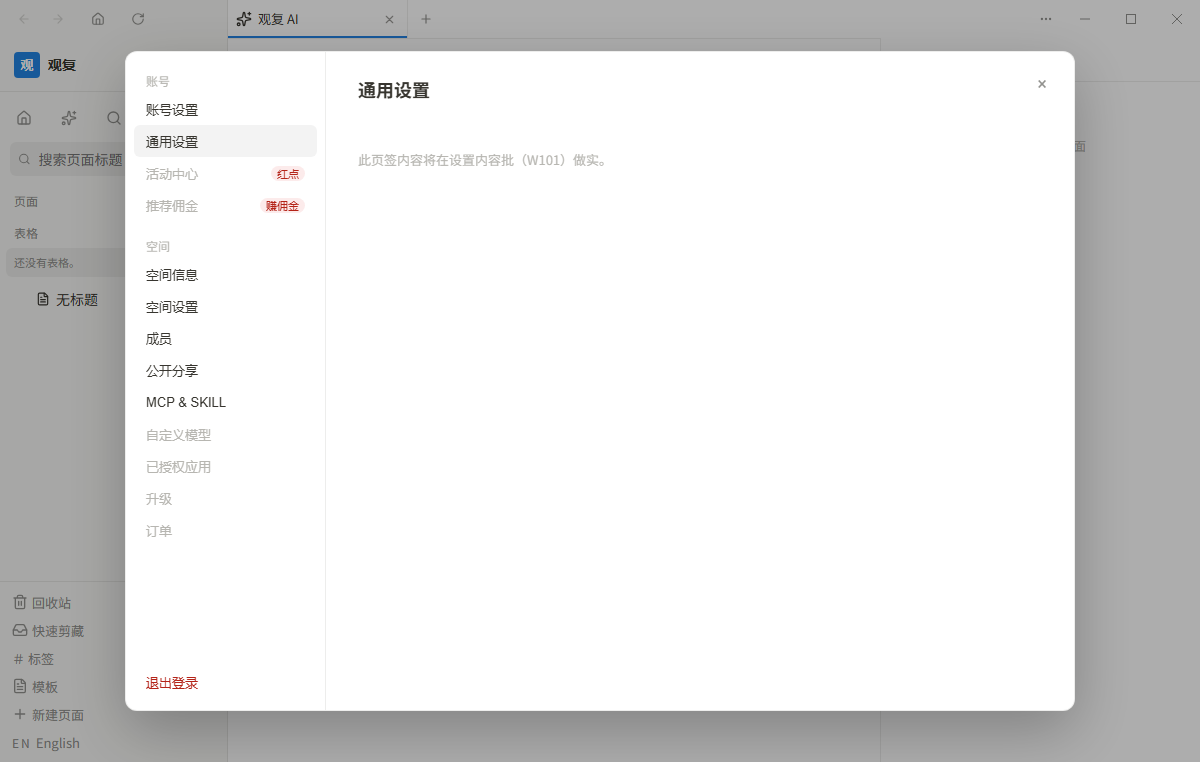
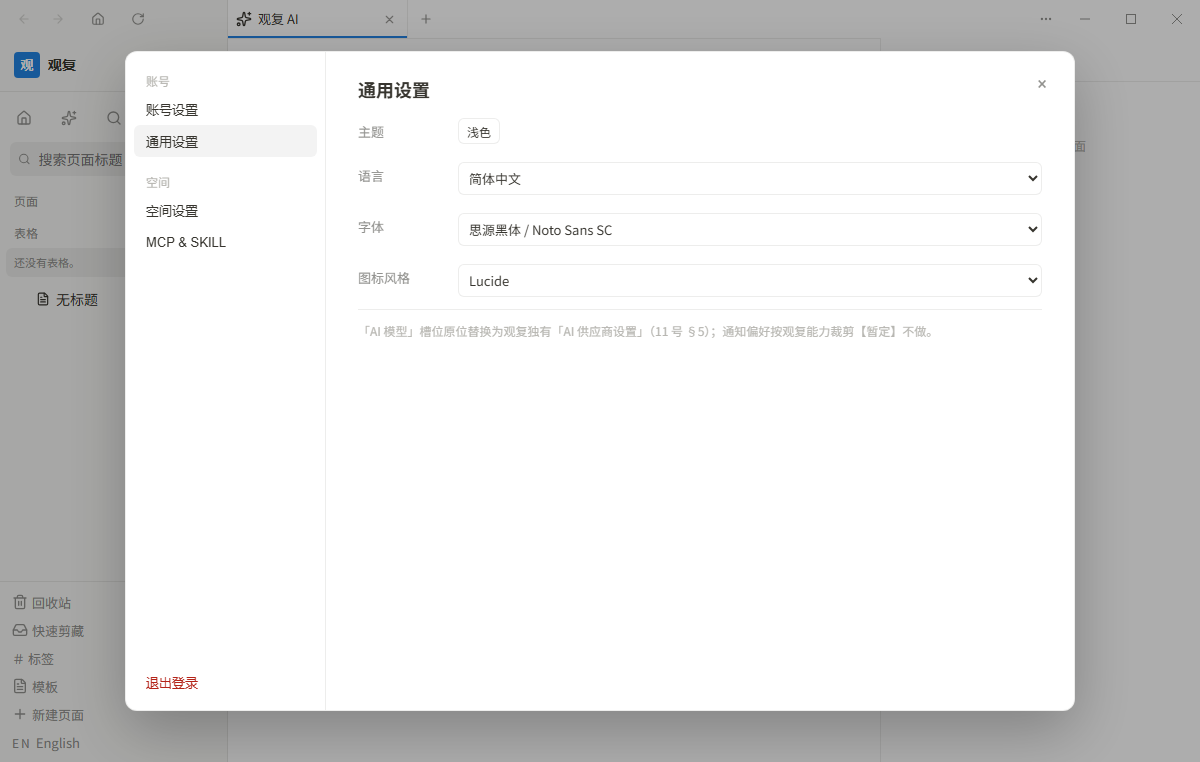
W102 DONE：商业化槽位替换——11 号 §5 清单执行：删 活动中心/推荐佣金/升级/订单/自定义模型/已授权应用+成员/公开分享/空间信息（单机自托管取删除【暂定】）；MCP & SKILL 保留槽位（mcp.ts 设置入口）；退出登录保留；导航精简为 账号2+空间2+退出登录；双 check 脚本真实浏览器全过（8+6 断言）+7 截图，272 绿 build 过

diff --git a/app/src/shell/SettingsDialog.tsx b/app/src/shell/SettingsDialog.tsx
@@ -1,6 +1,5 @@
 import { useEffect, useState } from "react";
 import { useStore } from "../data/store";
-import { loadAiConfig, saveAiConfig, type AiConfig } from "../data/ai";
 import { loadClipServerUrl, saveClipServerUrl, loadClipToken, saveClipToken } from "../data/clipApi";
 import { repo } from "../data/db";
 import { FONT_THEMES } from "../design/fonts";
@@ -8,72 +7,43 @@ import { ICON_SETS, type IconSetId } from "../design/icons";
 import { useLang } from "../i18n";
 
 /** W100 · 设置弹层骨架（11 号 §2）：居中大弹层 ~950×660，左侧竖导航 + 右侧内容 + 右上 ×。
- *  页签分组照录 11 号 §2：账号组（账号设置/通用设置，其余商业化置灰）、空间组、底部退出登录。
- *  W101 · 页签内容对齐（11 号 §5 观复槽位方案）：
- *  - 账号设置 → 观复简化（昵称真改真存，其余观复自建账号体系【暂定】不放假输入）
- *  - 通用设置 → 外观（主题/字体/图标风格，接 store）/ 语言（接 i18n）/ AI 供应商（原位替换，接 ai.ts）
- *  - 空间设置 → 原位替换为「同步与凭证」（观复独有：剪藏服务端地址/Token + 同步状态真显示）
- *  - 公开分享 → 空态（观复单机自托管，无公开主页）
- *  - MCP & SKILL → 观复 mcp.ts 的设置入口（保留槽位，11 号 §5）
- *  - 商业化 6 项置灰（W102 处理槽位替换，本版保留导航位） */
+ *  W101 · 页签内容对齐（11 号 §5 观复槽位方案）。
+ *  W102 · 商业化槽位替换（11 号 §5）执行：
+ *  - 活动中心 / 推荐佣金 / 升级 / 订单 / 自定义模型 / 已授权应用 → 删除（无商业化；自定义模型已并入通用设置的 AI 供应商）
+ *  - 成员 / 公开分享 → 删除（观复单机自托管，11 号 §5「删除或最小化」取删除【暂定】）
+ *  - MCP & SKILL → 保留槽位（观复 mcp.ts 设置入口）
+ *  - 退出登录 → 保留（凭证管理的一部分） */
 
 export type SettingsTab =
   | "account"
   | "general"
-  | "activity"
-  | "commission"
-  | "spaceInfo"
   | "spaceSettings"
-  | "members"
-  | "publicShare"
-  | "mcp"
-  | "customModels"
-  | "authorizedApps"
-  | "upgrade"
-  | "orders";
+  | "mcp";
 
-/** 11 号 §2 分组结构；商业化 3+2 项保留导航位但置灰（W102 处理槽位替换） */
-const NAV: { group: string; items: { id: SettingsTab; label: string; badge?: string; disabled?: boolean }[] }[] = [
+/** 11 号 §5 槽位替换后的导航：账号组 2 项 + 空间组 2 项（MCP & SKILL 保留）+ 底部退出登录 */
+const NAV: { group: string; items: { id: SettingsTab; label: string }[] }[] = [
   {
     group: "账号",
     items: [
       { id: "account", label: "账号设置" },
       { id: "general", label: "通用设置" },
-      { id: "activity", label: "活动中心", badge: "红点", disabled: true },
-      { id: "commission", label: "推荐佣金", badge: "赚佣金", disabled: true },
     ],
   },
   {
     group: "空间",
     items: [
-      { id: "spaceInfo", label: "空间信息" },
       { id: "spaceSettings", label: "空间设置" },
-      { id: "members", label: "成员" },
-      { id: "publicShare", label: "公开分享" },
       { id: "mcp", label: "MCP & SKILL" },
-      { id: "customModels", label: "自定义模型", disabled: true },
-      { id: "authorizedApps", label: "已授权应用", disabled: true },
-      { id: "upgrade", label: "升级", disabled: true },
-      { id: "orders", label: "订单", disabled: true },
     ],
   },
 ];
 
-/** W101 页签标题映射 */
+/** 页签标题映射 */
 const TAB_TITLE: Record<SettingsTab, string> = {
   account: "账号设置",
   general: "通用设置",
-  activity: "活动中心",
-  commission: "推荐佣金",
-  spaceInfo: "空间信息",
   spaceSettings: "空间设置",
-  members: "成员",
-  publicShare: "公开分享",
   mcp: "MCP & SKILL",
-  customModels: "自定义模型",
-  authorizedApps: "已授权应用",
-  upgrade: "升级",
-  orders: "订单",
 };
 
 export function SettingsDialog({ open, onClose }: { open: boolean; onClose: () => void }) {
@@ -100,12 +70,10 @@ export function SettingsDialog({ open, onClose }: { open: boolean; onClose: () =
               {g.items.map((it) => (
                 <button
                   key={it.id}
-                  className={`setdlg__item${tab === it.id ? " setdlg__item--on" : ""}${it.disabled ? " setdlg__item--off" : ""}`}
-                  disabled={it.disabled}
+                  className={`setdlg__item${tab === it.id ? " setdlg__item--on" : ""}`}
                   onClick={() => setTab(it.id)}
                 >
                   {it.label}
-                  {it.badge && <span className="setdlg__badge">{it.badge}</span>}
                 </button>
               ))}
             </div>
@@ -123,10 +91,7 @@ export function SettingsDialog({ open, onClose }: { open: boolean; onClose: () =
             {tab === "account" && <AccountPane />}
             {tab === "general" && <GeneralPane />}
             {tab === "spaceSettings" && <SyncPane />}
-            {tab === "publicShare" && <PublicSharePane />}
             {tab === "mcp" && <McpPane />}
-            {tab === "spaceInfo" && <PlaceholderPane text="空间信息内页——重做期补采（11 号 §6），【暂定】并入「同步与凭证」。" />}
-            {tab === "members" && <PlaceholderPane text="观复单机自托管，无成员体系（11 号 §5：删除或最小化）。" />}
           </div>
         </section>
       </div>
@@ -188,7 +153,7 @@ function GeneralPane() {
   const setIconSet = useStore((s) => s.setIconSet);
   const fontTheme = useStore((s) => s.fontTheme);
   const setFontTheme = useStore((s) => s.setFontTheme);
-  const { lang, setLang, t } = useLang();
+  const { lang, setLang } = useLang();
 
   return (
     <div className="setpane">
@@ -301,22 +266,9 @@ function SyncPane() {
   );
 }
 
-/* ---------------- 公开分享（11 号 §2.4：观复单机自托管 → 空态） ---------------- */
-
-function PublicSharePane() {
-  return (
-    <div className="setpane">
-      <div className="setpane__hint">
-        观复单机自托管，无公开主页（11 号 §5：删除或最小化）。如需分享单页，用页面 ⚡ 分享链接。
-      </div>
-    </div>
-  );
-}
-
-/* ---------------- MCP & SKILL（11 号 §2.5：观复 mcp.ts 的设置入口，保留槽位） ---------------- */
+/* ---------------- MCP & SKILL（11 号 §2.5 + §5：保留槽位，观复 mcp.ts 的设置入口） ---------------- */
 
 function McpPane() {
-  const iconSet = useStore((s) => s.iconSet);
   return (
     <div className="setpane">
       <div className="setpane__hint">
@@ -324,8 +276,4 @@ function McpPane() {
       </div>
     </div>
   );
-}
-
-function PlaceholderPane({ text }: { text: string }) {
-  return <div className="setpane"><div className="setpane__hint">{text}</div></div>;
 }

diff --git a/ops/执行报告-v7.md b/ops/执行报告-v7.md
@@ -97,3 +97,4 @@
 - [2026-11-20 12:20] 状态: 1200 轮收尾——W95（f6450a5）+W96（53e0d0f）已收口，会话配额 3 任务用完，下轮从 W97 起
 - [2026-11-20 13:17] W100 | 收口: 设置弹层骨架六件套齐——①入口链真接通（工作区 ⌄ → 空间切换菜单「空间设置」，替换原【待 W100】占位）②居中大弹层 950×660 新令牌 --gf-settings-{width,height,nav-width} ③左竖导航照录 11 号 §2（账号组 4 项含红点/赚佣金徽章 + 空间组 9 项，商业化 活动中心/推荐佣金/自定义模型/已授权应用/升级/订单 6 项置灰保留）④底部退出登录（骨架期不接逻辑，红线区防误触）⑤页签切换 active 态真迁移 + Esc/×/遮罩三种关闭 ⑥settings-check 8 断言真实浏览器全过 + 3 截图；W101 起逐页签做实内容【暂定】观复自有深浅主题复用 | 证据: docs/验收证据/重做批/W100/
 - [2026-11-20 14:08] W101 | 收口: 页签内容对齐六件套齐——①账号设置=观复简化（昵称真存 Dexie meta accountNick，blur 落库；邮箱/手机/认证/设备管理观复自建【暂定】不做）②通用设置=外观（主题/字体/图标风格接 store）+语言（接 i18n）真实切换 ③空间设置槽位原位替换为观复独有「同步与凭证」：同步状态真显示（pending/conflicts/lastSyncAt）+剪藏服务端地址/Token 改了真存刷新回读不丢 ④公开分享空态+MCP & SKILL mcp.ts 提示占位 ⑤商业化 6 项仍置灰留给 W102 ⑥settings-content-check 6 断言真实浏览器全过+4 截图，272 绿 build 过 | 证据: docs/验收证据/重做批/W101/
+- [2026-11-20 14:33] W102 | 收口: 商业化槽位替换六件套齐——11 号 §5 清单执行：①删 活动中心/推荐佣金/升级/订单（无商业化）②删 自定义模型（并入通用设置 AI 供应商，11 号 §5 原文）③删 已授权应用/成员/公开分享/空间信息（观复单机自托管，「删除或最小化」取删除【暂定】）④MCP & SKILL 保留槽位（观复 mcp.ts 设置入口）⑤退出登录保留（凭证管理一部分）⑥导航精简后 settings-check 8 断言（更新为删除断言+MCP 保留）与 settings-content-check 6 断言双绿+7 截图刷新，272 绿 build 过 | 证据: docs/验收证据/重做批/W100/ + W101/

diff --git a/开发任务表-v3.5-重做批.md b/开发任务表-v3.5-重做批.md
@@ -176,7 +176,7 @@
 | --- | --- | --- | --- | --- |
 | W100 | 设置弹层骨架 | 4 页签弹层形态按规格 | 35 | DONE |
 | W101 | 页签内容对齐 | 各页签内容项逐项按 11 号规格（设置项真实可用，改了真生效） | 45 | DONE |
-| W102 | 商业化槽位替换 | 槽位原位替换清单（11 §5）执行：Plus 等入口换成观复自有功能或移除 | 35 | TODO |
+| W102 | 商业化槽位替换 | 槽位原位替换清单（11 §5）执行：Plus 等入口换成观复自有功能或移除 | 35 | DONE |
 | W103 | 账号区 | 本地账号形态观复自有【暂定】 | 30 | TODO |
 | W104 | 设置走查 | 走查 + 截图 | 20 | TODO |
 
